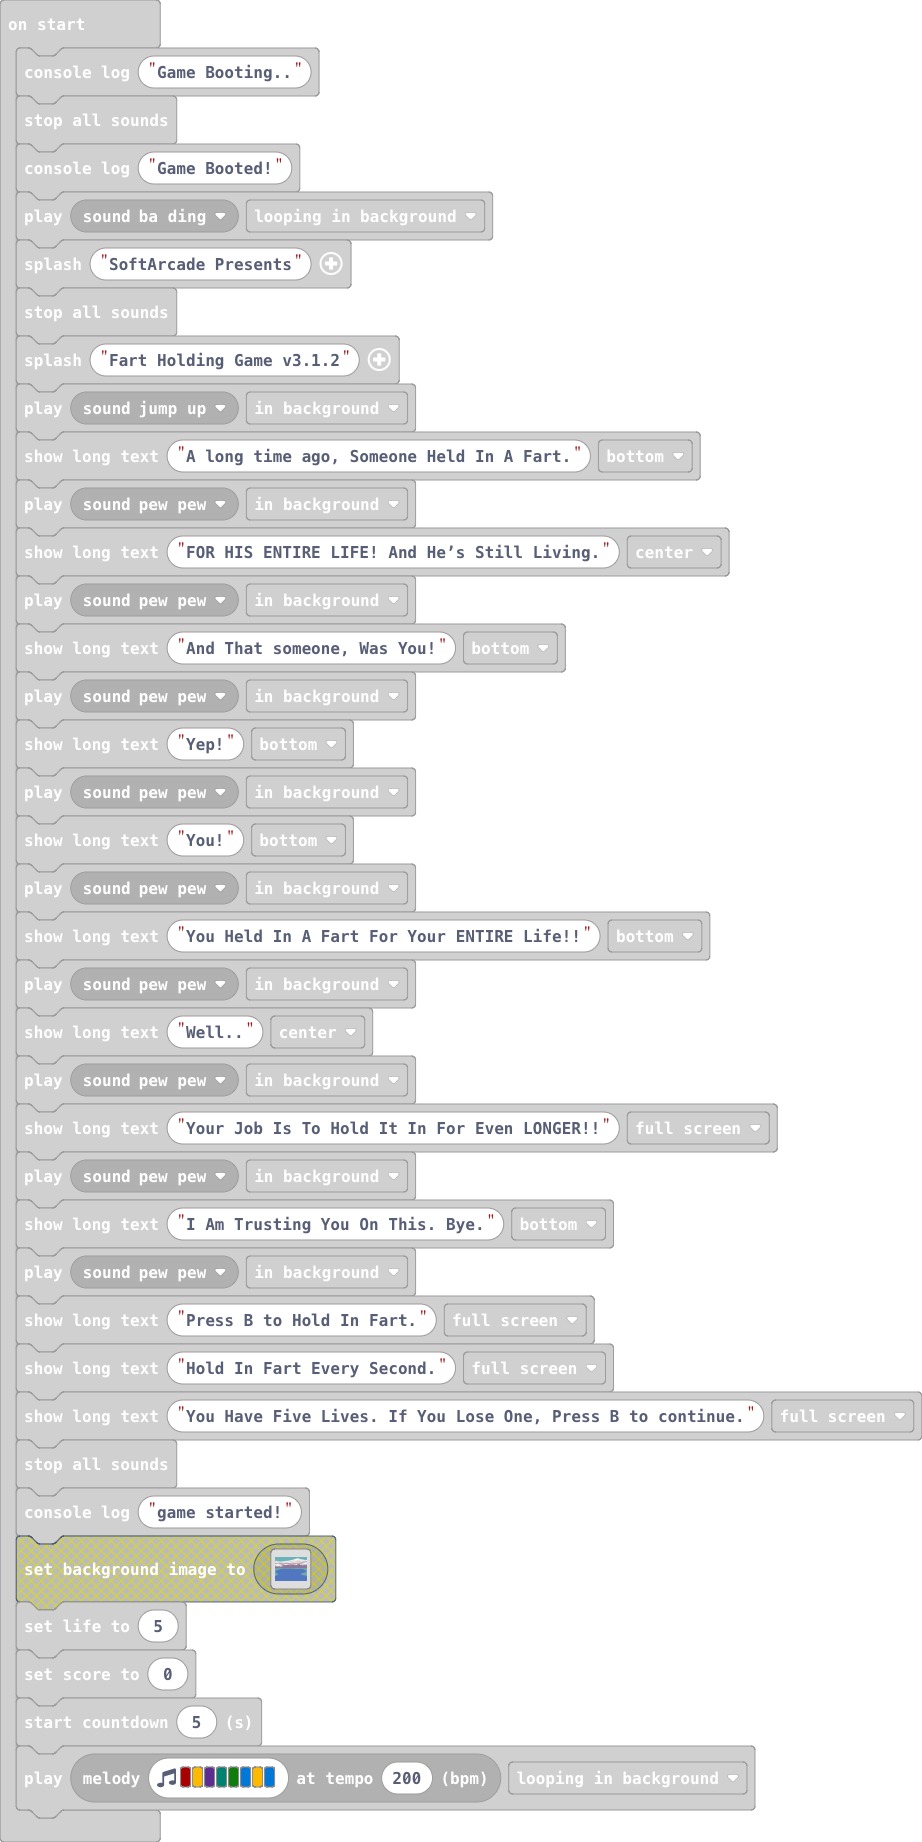
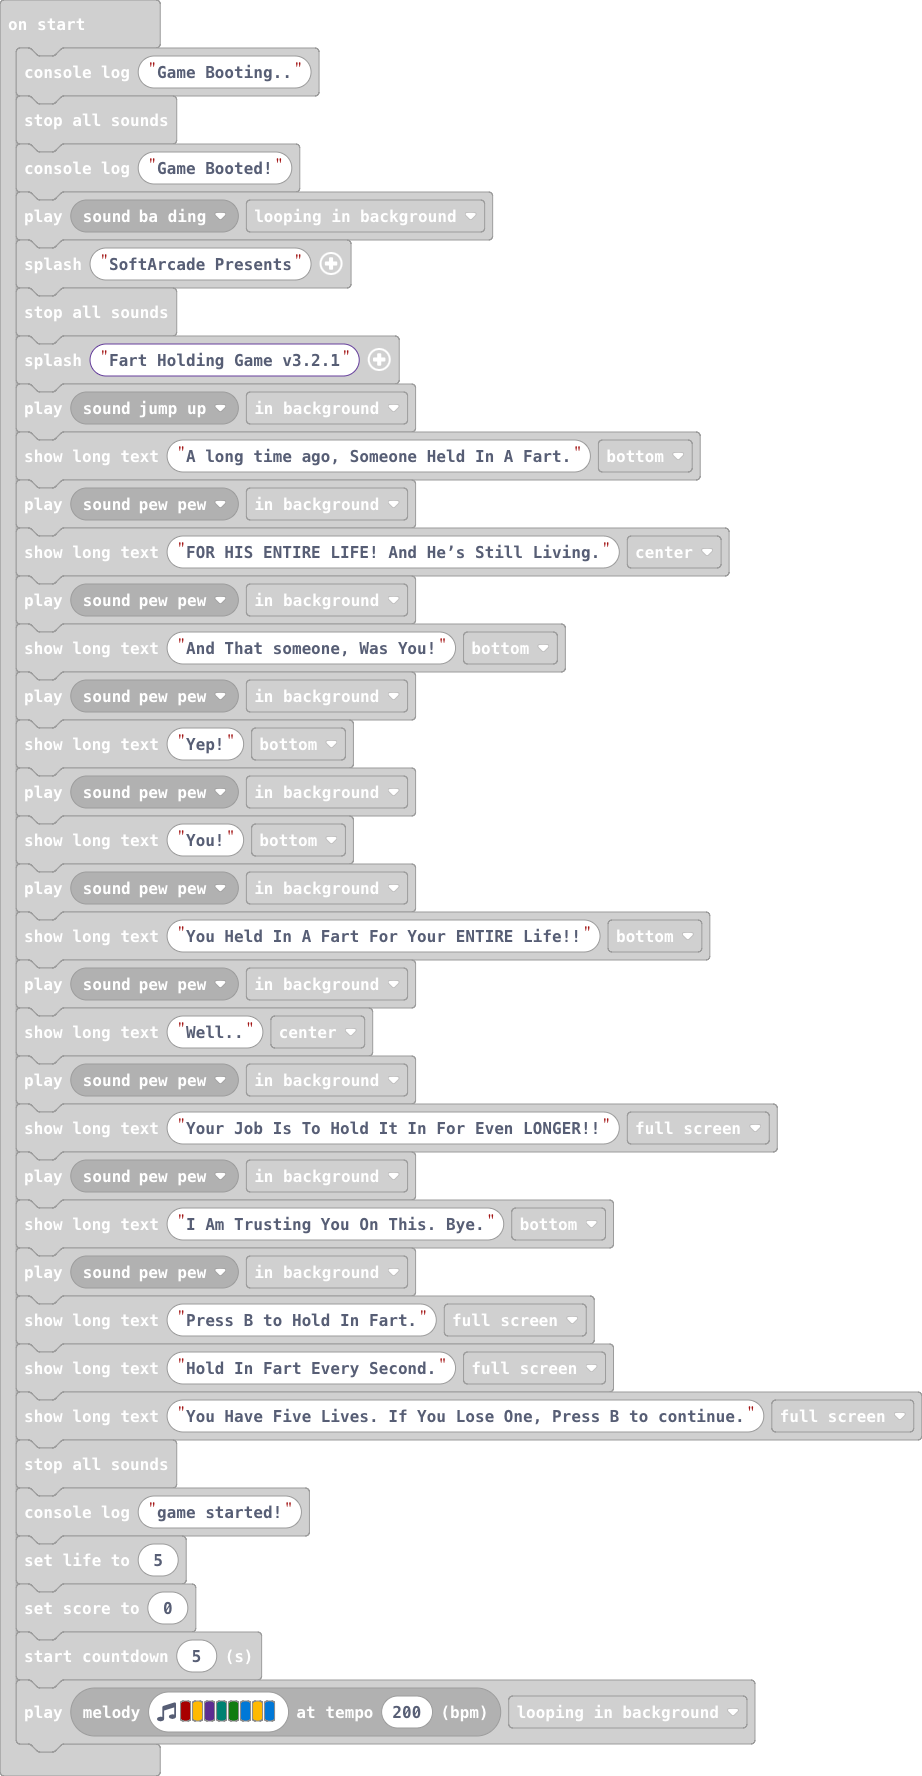
nonsense stuff.

Changed region(s): [[0.0, 0.031, 1.0, 0.991], [0.5466, 0.9291, 0.7896, 0.991]]

diff --git a/main.ts b/main.ts
@@ -23,7 +23,7 @@ console.log("Game Booted!")
 music.play(music.melodyPlayable(music.baDing), music.PlaybackMode.LoopingInBackground)
 game.splash("SoftArcade Presents")
 music.stopAllSounds()
-game.splash("Fart Holding Game v3.1.2")
+game.splash("Fart Holding Game v3.2.1")
 music.play(music.melodyPlayable(music.jumpUp), music.PlaybackMode.InBackground)
 game.showLongText("A long time ago, Someone Held In A Fart.", DialogLayout.Bottom)
 music.play(music.melodyPlayable(music.pewPew), music.PlaybackMode.InBackground)
